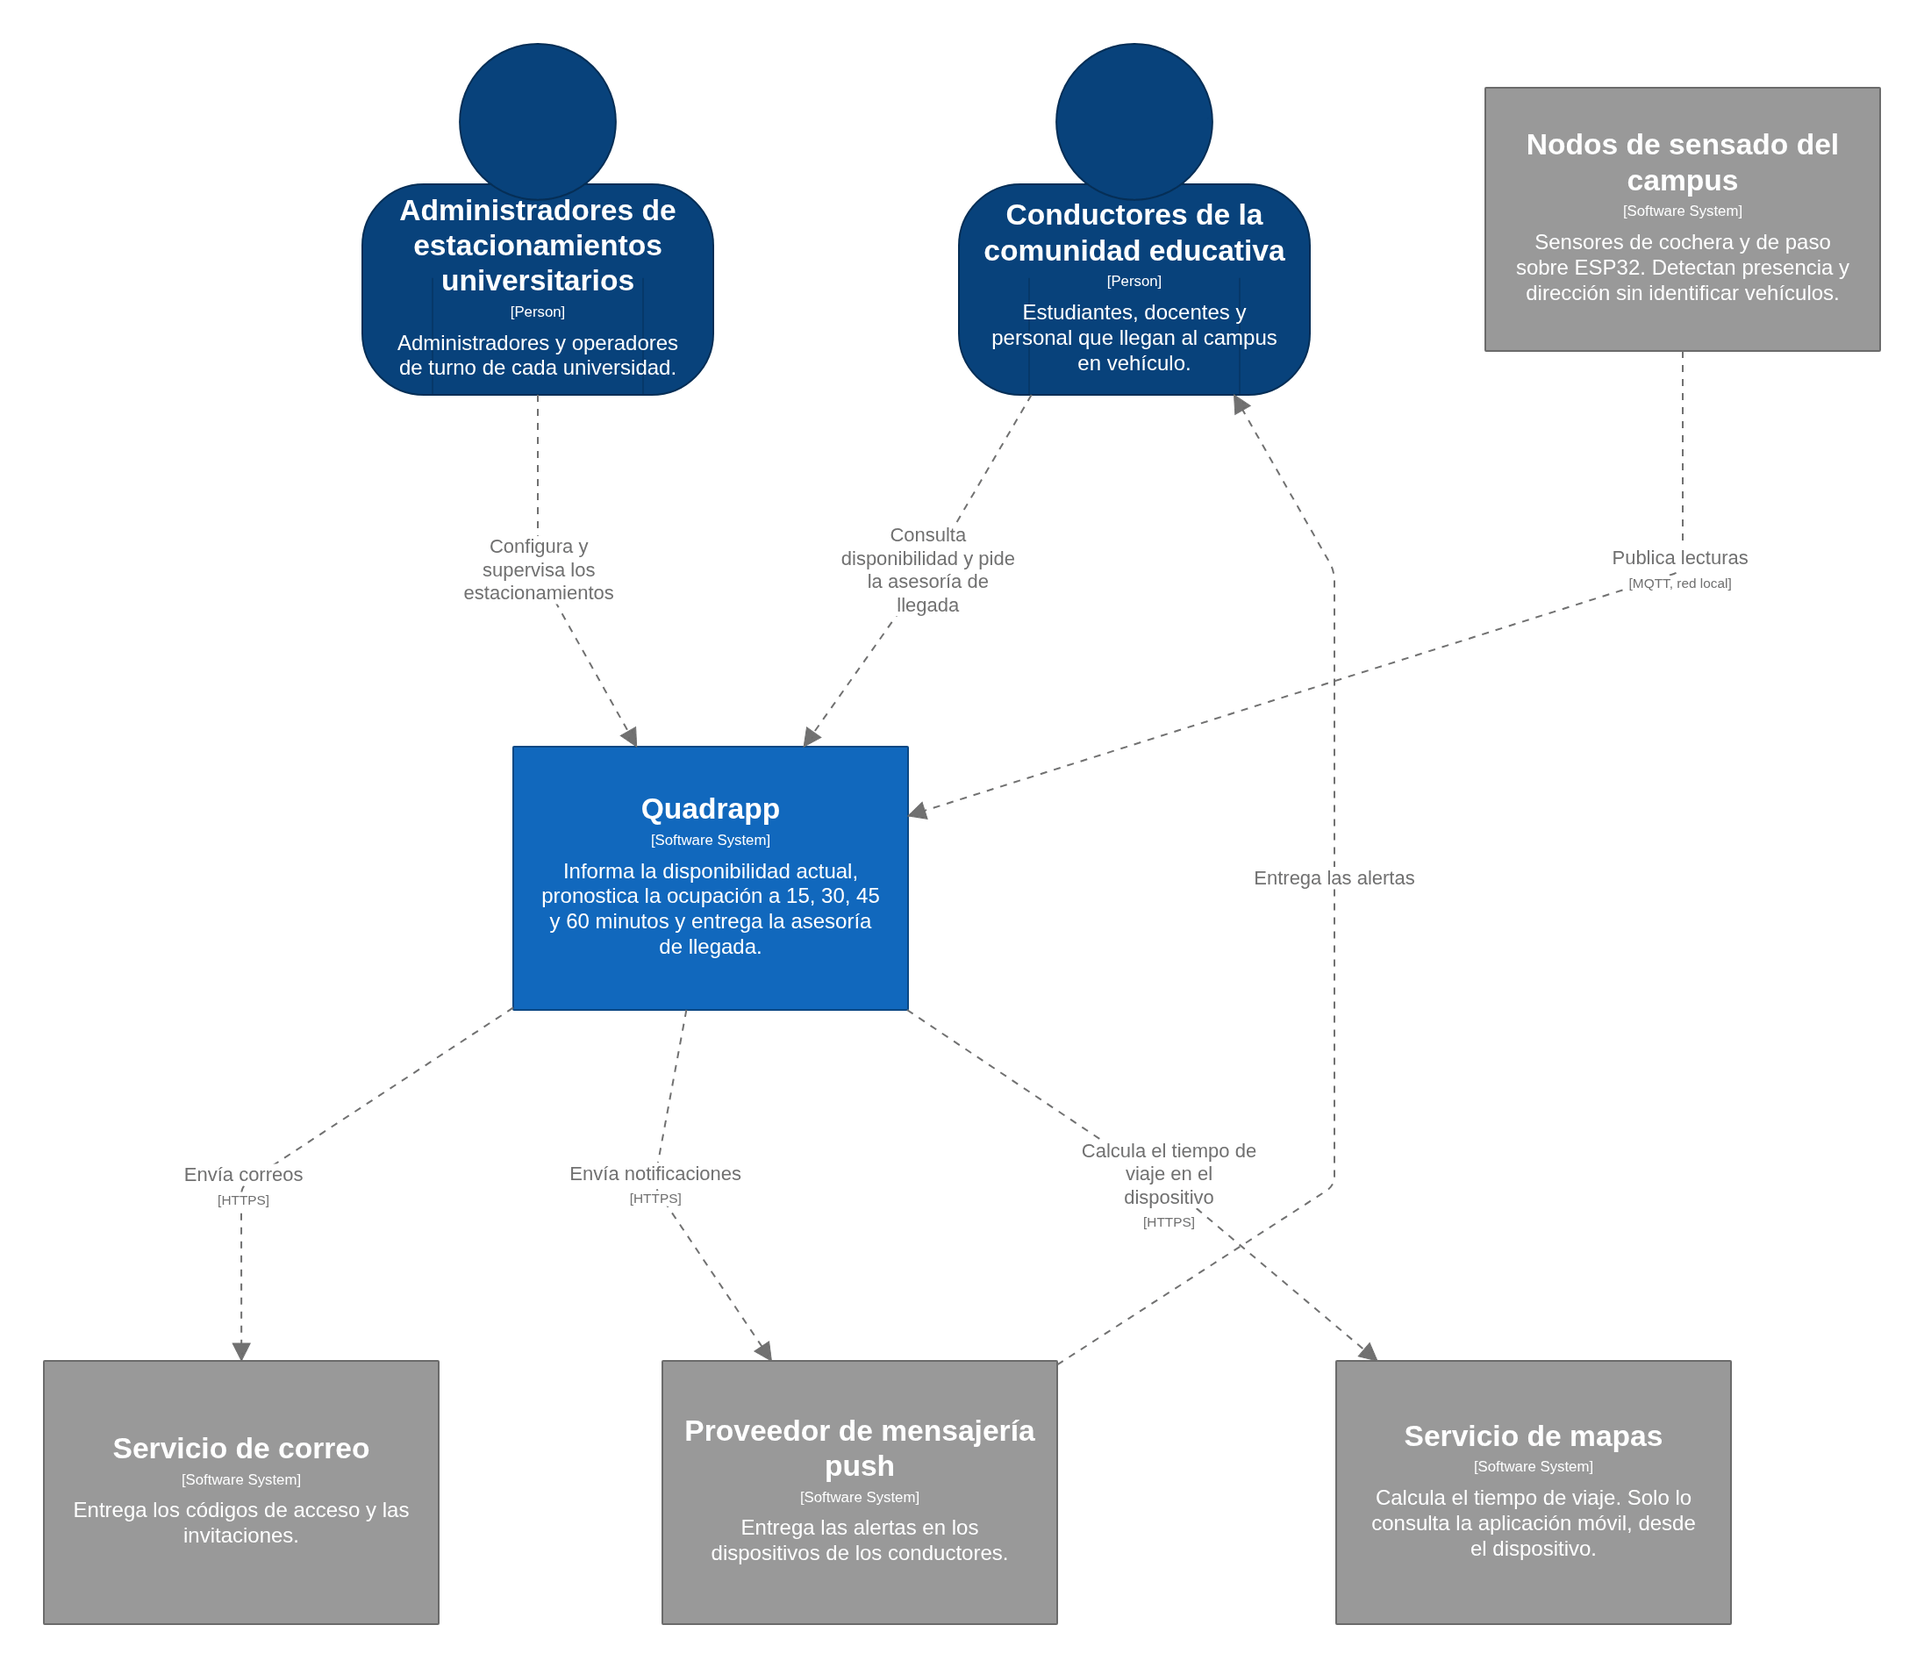
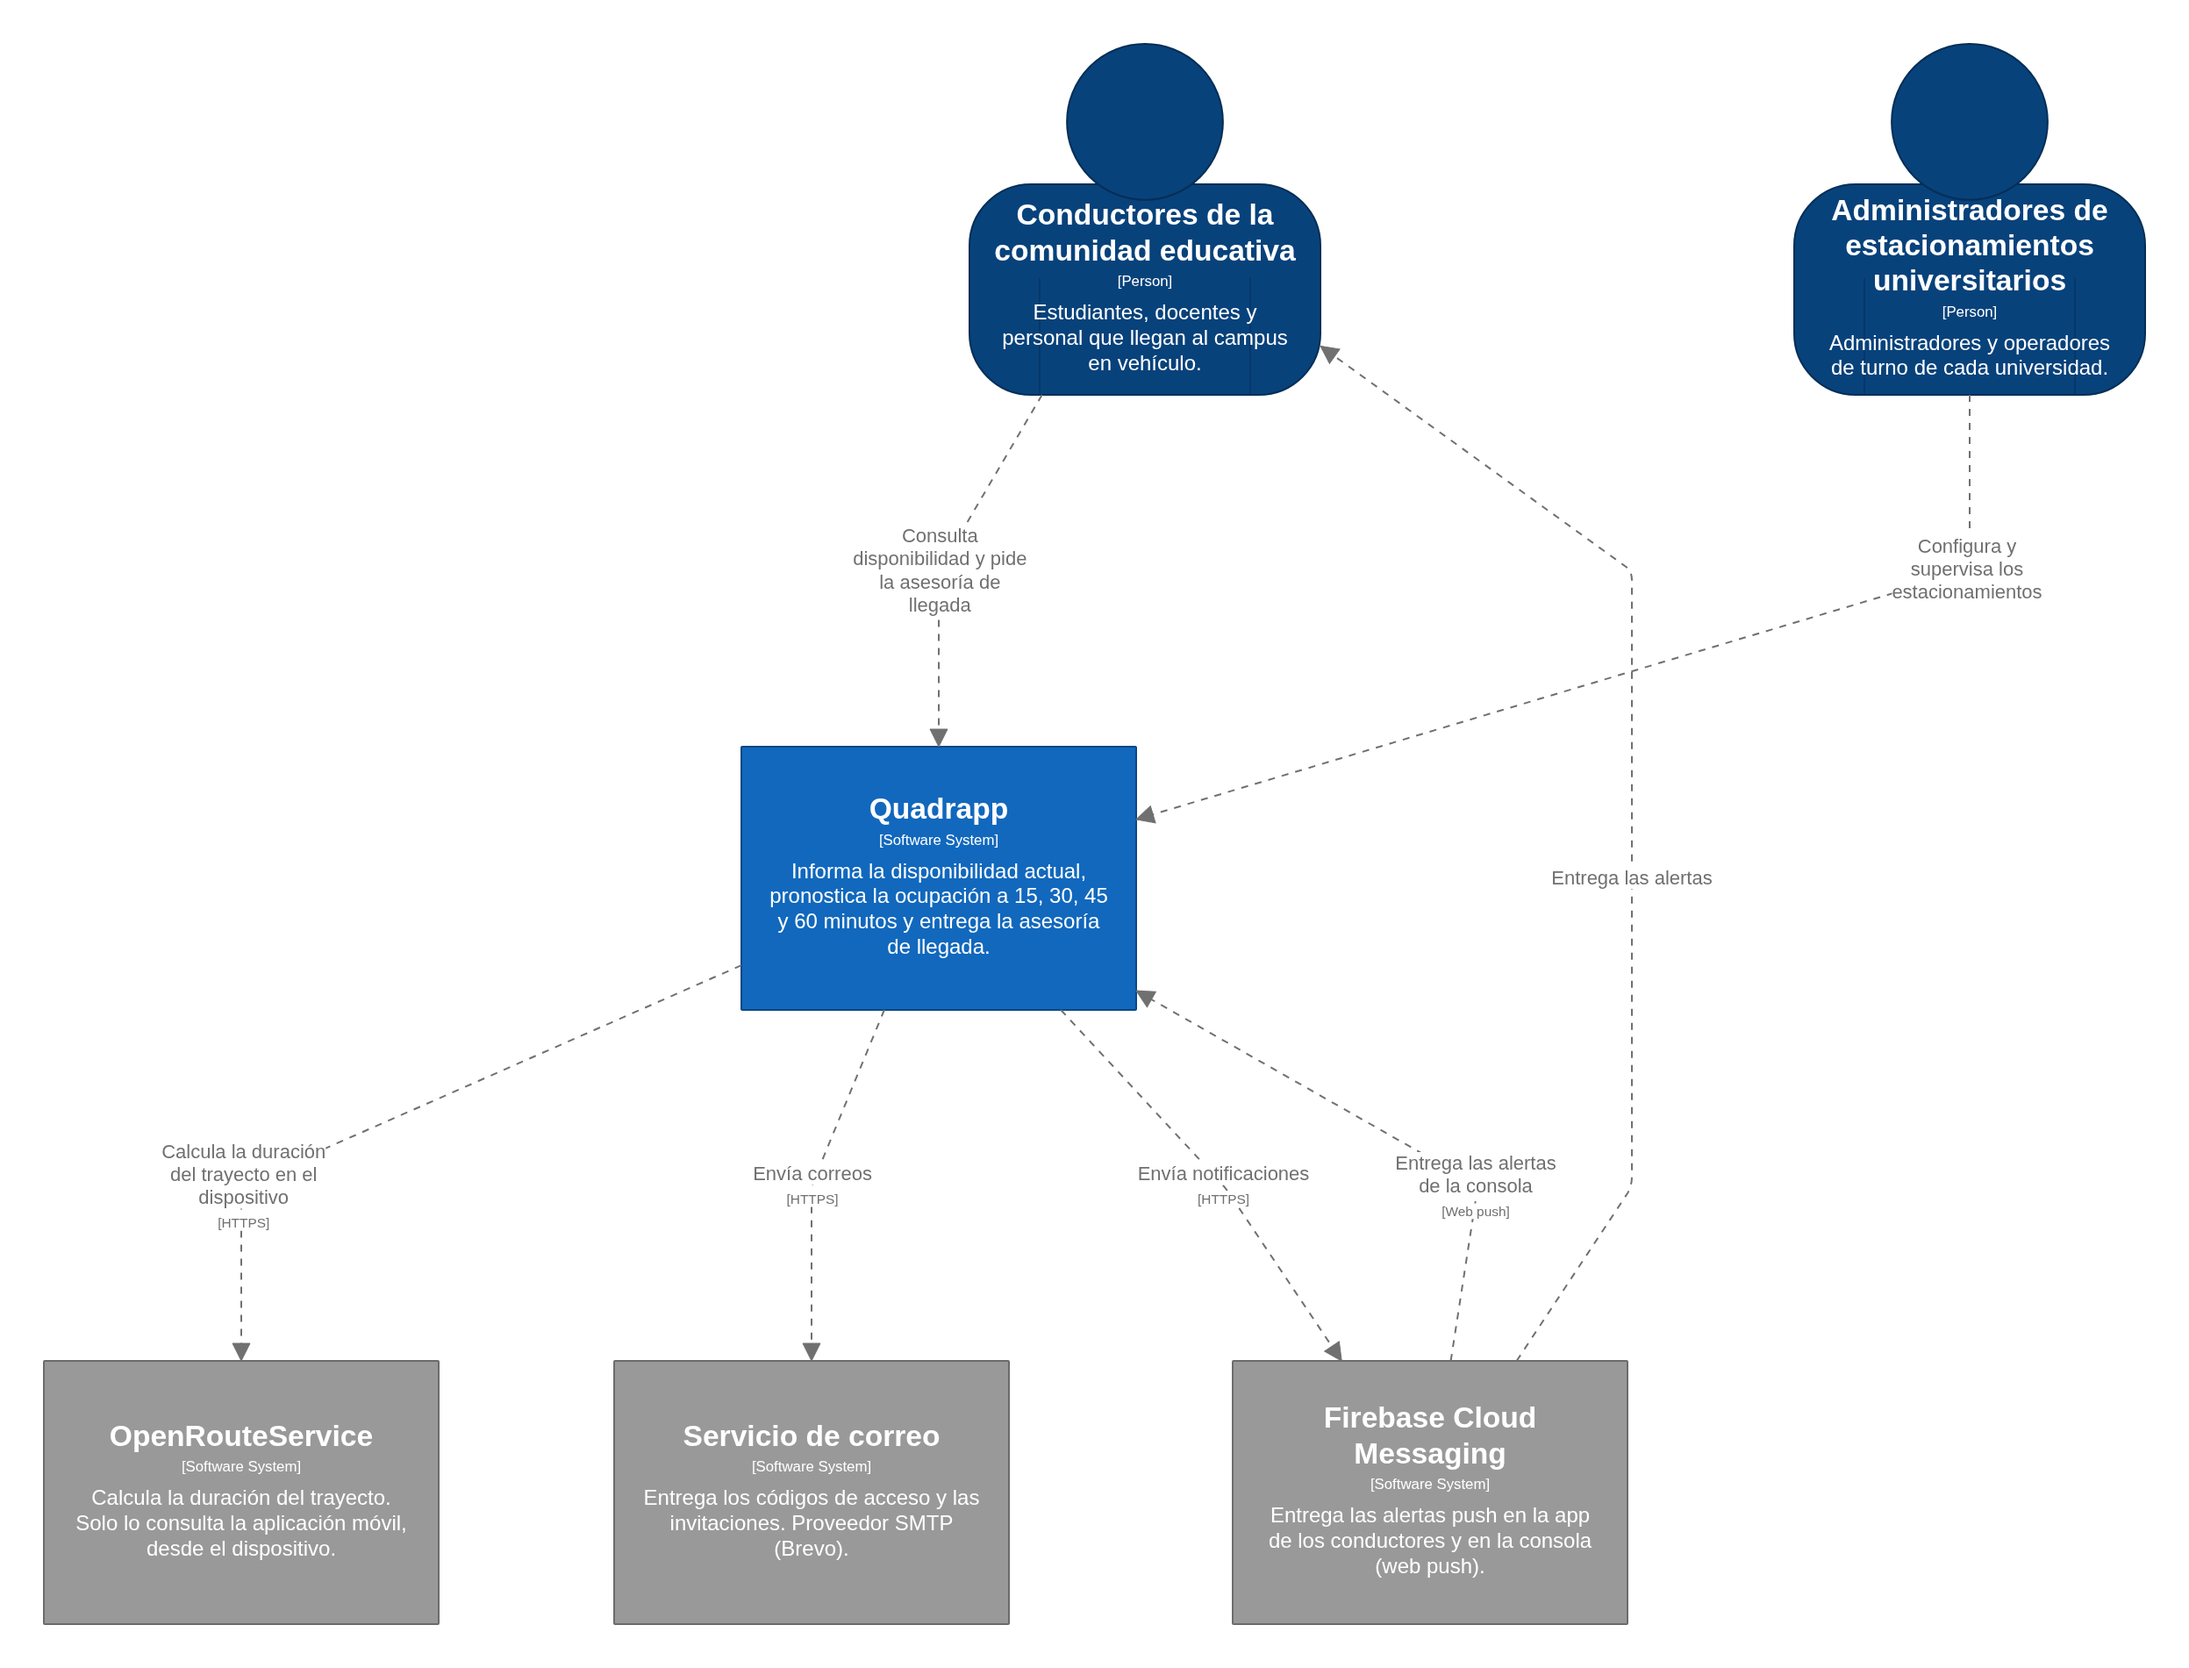
docs(chapter-04): update c4 diagrams and software architecture

diff --git a/README.md b/README.md
@@ -3523,11 +3523,11 @@ Prediction & Advisory permanece como el Core Domain de Quadrapp y recibe únicam
 
 ## 4.3. Software Architecture
 
-Las vistas arquitectónicas siguen el modelo C4, que organiza la representación del sistema mediante niveles de abstracción y diagramas complementarios de paisaje y despliegue (Brown, s. f.). Los diagramas se elaboraron con Structurizr a partir de un único modelo, de modo que las personas, los sistemas, los contenedores y los componentes son los mismos en todas las vistas, incluidas las de componentes del capítulo V. En cada elemento se indica su tipo y su tecnología entre corchetes y, en cada relación, el protocolo de comunicación. Los elementos en azul pertenecen a Quadrapp y los grises son sistemas externos.
+Las vistas arquitectónicas siguen el modelo C4, que organiza la representación del sistema mediante niveles de abstracción y diagramas complementarios de paisaje y despliegue (Brown, s. f.). Los diagramas se elaboraron con Structurizr a partir de un único modelo, de modo que las personas, los sistemas, los contenedores y los componentes son los mismos en todas las vistas, incluidas las de componentes del capítulo V. En cada elemento se indica su tipo y su tecnología entre corchetes y, en cada relación, el protocolo de comunicación. Los elementos en azul pertenecen a Quadrapp; los de azul petróleo también, pero se ejecutan en el campus (el firmware de los nodos y el gateway), y los grises son sistemas externos.
 
 ### 4.3.1. Software Architecture System Landscape Diagram
 
-El System Landscape Diagram ubica a Quadrapp dentro de su ecosistema antes de detallar su estructura interna. Las personas corresponden a los dos segmentos objetivo definidos en la sección 1.3: los conductores de la comunidad educativa, que consultan la disponibilidad, los pronósticos y la asesoría de llegada, y los administradores de estacionamientos universitarios, que incluyen a los administradores y a los operadores de turno de cada universidad. Alrededor del sistema se encuentran los nodos de sensado del campus, el servicio de correo, el proveedor de mensajería push y el servicio de mapas. Quadrapp no depende de un proveedor de identidad externo: su gestión de identidad es propia.
+El System Landscape Diagram ubica a Quadrapp dentro de su ecosistema antes de detallar su estructura interna. Las personas corresponden a los dos segmentos objetivo definidos en la sección 1.3: los conductores de la comunidad educativa, que consultan la disponibilidad, los pronósticos y la asesoría de llegada, y los administradores de estacionamientos universitarios, que incluyen a los administradores y a los operadores de turno de cada universidad. Alrededor del sistema se encuentran el servicio de correo, Firebase Cloud Messaging para las alertas push y OpenRouteService para calcular la duración del trayecto. Los nodos de sensado no aparecen como un sistema externo, porque su firmware lo desarrolla el equipo y forma parte de Quadrapp. Quadrapp no depende de un proveedor de identidad externo: su gestión de identidad es propia.
 
 ![System Landscape diagram de Quadrapp](assets/capitulo-04/c4/c4-landscape.png)
 
@@ -3537,31 +3537,34 @@ El Context Diagram muestra a Quadrapp como un único sistema y detalla cómo se 
 
 ![System Context diagram de Quadrapp](assets/capitulo-04/c4/c4-context.png)
 
-El conductor utiliza Quadrapp para consultar la disponibilidad, revisar los pronósticos y obtener la asesoría de llegada, y recibe las alertas de baja disponibilidad a través del proveedor de mensajería push. El administrador de estacionamientos lo emplea para configurar y supervisar la operación de su universidad. En ambos casos, el acceso se realiza con un código de un solo uso que Quadrapp envía mediante el servicio de correo.
+El conductor utiliza Quadrapp para consultar la disponibilidad, revisar los pronósticos y obtener la asesoría de llegada, y recibe las alertas a través de Firebase Cloud Messaging, que también entrega las alertas de la consola. El administrador de estacionamientos lo emplea para configurar y supervisar la operación de su universidad. En ambos casos, el acceso se realiza con un código de un solo uso que Quadrapp envía mediante el servicio de correo.
 
-Los nodos de sensado del campus publican las lecturas de los sensores de cochera y de paso en la red local; no se comunican directamente con los servicios de Quadrapp, sino a través del gateway del campus, que forma parte de la solución y se detalla en el diagrama de contenedores. El servicio de mapas solo lo consulta la aplicación móvil, desde el dispositivo, para calcular el tiempo estimado de llegada; Quadrapp recibe únicamente ese tiempo expresado en minutos, de acuerdo con CON-07 y la iteración 5b del ADD.
+El firmware de los nodos de sensado y el gateway del campus forman parte de Quadrapp y se detallan en el diagrama de contenedores. OpenRouteService solo lo consulta la aplicación móvil, desde el dispositivo, para calcular la duración del trayecto; Quadrapp recibe únicamente ese tiempo expresado en minutos, de acuerdo con CON-07 y la iteración 5b del ADD.
 
 ### 4.3.3. Software Architecture Container Level Diagrams
 
 El Container Diagram descompone Quadrapp en los contenedores que lo conforman, de acuerdo con la decisión de monolito modular de la iteración 1 del ADD (DD-01):
 
 - **Clientes:** la Landing Page (HTML5, CSS3 y JavaScript generados con Astro como sitio estático), la aplicación móvil del conductor (Flutter) y la consola web de operación de cada universidad (Vue con Vuetify, la biblioteca de Material Design para Vue), que es responsive para usarse también desde el teléfono durante el turno.
-- **Quadrapp Backend:** un único contenedor Spring Boot con un módulo por bounded context (IAM, Parking Configuration, Parking Sensing, Occupancy, Prediction & Advisory, Analytics y Notifications). La seguridad la aplica Spring Security en el propio backend (DD-08) y un módulo de composición entrega las respuestas agregadas para la app y la consola. La app recibe además los cambios de disponibilidad en tiempo real mediante WebSocket.
-- **Ingesta IoT:** los nodos de sensado publican sus lecturas en el gateway del campus, que las reenvía al broker MQTT de la nube por una conexión saliente cifrada con QoS 1 y las retiene en su búfer local mientras no hay conexión (Store-and-Forward). El campus no expone puertos de entrada. El módulo Parking Sensing es el único suscriptor del broker.
+- **Quadrapp Backend:** un único contenedor Spring Boot con un módulo por bounded context (IAM, Parking Configuration, Parking Sensing, Occupancy, Prediction & Advisory, Analytics y Notifications). La seguridad la aplica Spring Security en el propio backend (DD-08) y un módulo de composición entrega las respuestas agregadas para la app y la consola. La app y la consola reciben los cambios en tiempo real mediante WebSocket (STOMP). Los límites entre módulos se verifican con Spring Modulith y cada módulo migra su esquema con Flyway (DD-01).
+- **Ingesta IoT:** el firmware de los nodos de sensado (C++ sobre ESP32, CON-15) publica las lecturas en el gateway del campus por la red Wi-Fi local. El gateway, un Mosquitto en modo bridge, las reenvía al broker MQTT de la nube por una conexión saliente cifrada con QoS 1 y retiene hasta 24 horas de lecturas en una cola en disco mientras no hay conexión (Store-and-Forward). El campus no expone puertos de entrada. Las réplicas del backend comparten una suscripción al broker, de modo que el módulo Parking Sensing recibe cada lectura en una sola réplica (DD-02).
 - **Persistencia:** una base de datos PostgreSQL con un esquema por módulo y sin claves foráneas entre esquemas (CON-02), y Redis para el read model de disponibilidad (iteración 4 del ADD).
-- **Servicio del modelo de predicción:** un contenedor interno que infiere la ocupación esperada. Prediction & Advisory lo invoca con timeout y circuit breaker y, si no responde, aplica la heurística de respaldo (DD-05 y DD-07). No lo consumen los clientes, por lo que no forma parte de la API REST pública regida por CON-12.
+- **Entrenamiento del modelo:** un trabajo programado en Python que entrena un modelo por horizonte con scikit-learn y lo exporta a ONNX con su versión. No es un servicio web: Prediction & Advisory ejecuta el modelo dentro del backend con ONNX Runtime y, si no hay un modelo cargado, aplica la heurística de respaldo (DD-05 y DD-10). Así, el único servicio web de Quadrapp es el backend en Spring Boot (CON-12).
+- **Servicios externos:** el servicio de correo (Brevo, por SMTP) para los códigos de acceso y las invitaciones, Firebase Cloud Messaging para las alertas push de la app y de la consola, y OpenRouteService, que solo consulta la app.
 
 ![Container diagram de Quadrapp](assets/capitulo-04/c4/c4-containers.png)
 
-Dentro del backend, los módulos se comunican de dos formas, según las relaciones del Context Map. Las consultas se resuelven mediante la fachada que cada módulo expone como Open Host Service, por ejemplo, cuando Prediction & Advisory consulta la ocupación actual y el flujo a Occupancy. Los eventos publicados, como `ForecastGenerated` o `SaturationPredicted`, se emiten como eventos de aplicación de Spring y los módulos interesados los consumen después de que el emisor confirma su transacción. El detalle de cada módulo se presenta en los diagramas de componentes del capítulo V.
+Dentro del backend, los módulos se comunican de dos formas, según las relaciones del Context Map. Las consultas se resuelven mediante la fachada que cada módulo expone como Open Host Service, por ejemplo, cuando Prediction & Advisory consulta la ocupación actual y el flujo a Occupancy. Los eventos publicados, como `ForecastGenerated` o `SaturationPredicted`, se emiten como eventos de aplicación de Spring. Spring Modulith los guarda en su registro de publicación dentro de la misma transacción del emisor y los entrega a los módulos interesados después de confirmarla, por lo que no se pierden si el proceso cae. El detalle de cada módulo se presenta en los diagramas de componentes del capítulo V.
 
 ### 4.3.4. Software Architecture Deployment Diagrams
 
 El Deployment Diagram representa dónde se ejecuta cada contenedor en producción:
 
 - **Dispositivos de los usuarios:** la aplicación móvil se ejecuta en el teléfono del conductor (Android o iOS) y la consola, en el navegador del administrador.
-- **Campus universitario:** los nodos de sensado (ESP32) y el equipo de borde con el gateway permanecen en la red local, que solo abre conexiones salientes hacia el broker MQTT de la nube.
-- **Proveedor cloud:** la Landing Page se publica como sitio estático; el backend se despliega como un servicio web con réplicas sin estado detrás del balanceador del proveedor, lo que atiende la carga de QAS-04; el broker MQTT y el servicio del modelo de predicción se despliegan como contenedores propios, y PostgreSQL y Redis se usan como servicios gestionados.
+- **Campus universitario:** el firmware se ejecuta en los nodos ESP32 y el gateway en un equipo de borde con Linux, ambos en la red local, que solo abre conexiones salientes hacia el broker MQTT de la nube.
+- **Amazon Web Services:** la Landing Page y los archivos de la consola se publican en S3 con CloudFront. Una instancia EC2 ejecuta con Docker Compose el proxy de entrada Caddy, dos réplicas sin estado del backend (QAS-04), el trabajo de entrenamiento del modelo, Mosquitto, PostgreSQL y Redis, con volúmenes en disco y una copia diaria de la base de datos en S3. GitHub Actions publica las imágenes y actualiza la instancia (DD-11).
+
+Este despliegue corresponde al prototipo. La instancia es un punto único de falla que el reinicio automático de los contenedores solo mitiga; un despliegue comercial usaría base de datos y caché gestionadas, varias máquinas y un broker MQTT en clúster.
 
 ![Deployment diagram de Quadrapp - Producción](assets/capitulo-04/c4/c4-deployment.png)
 
